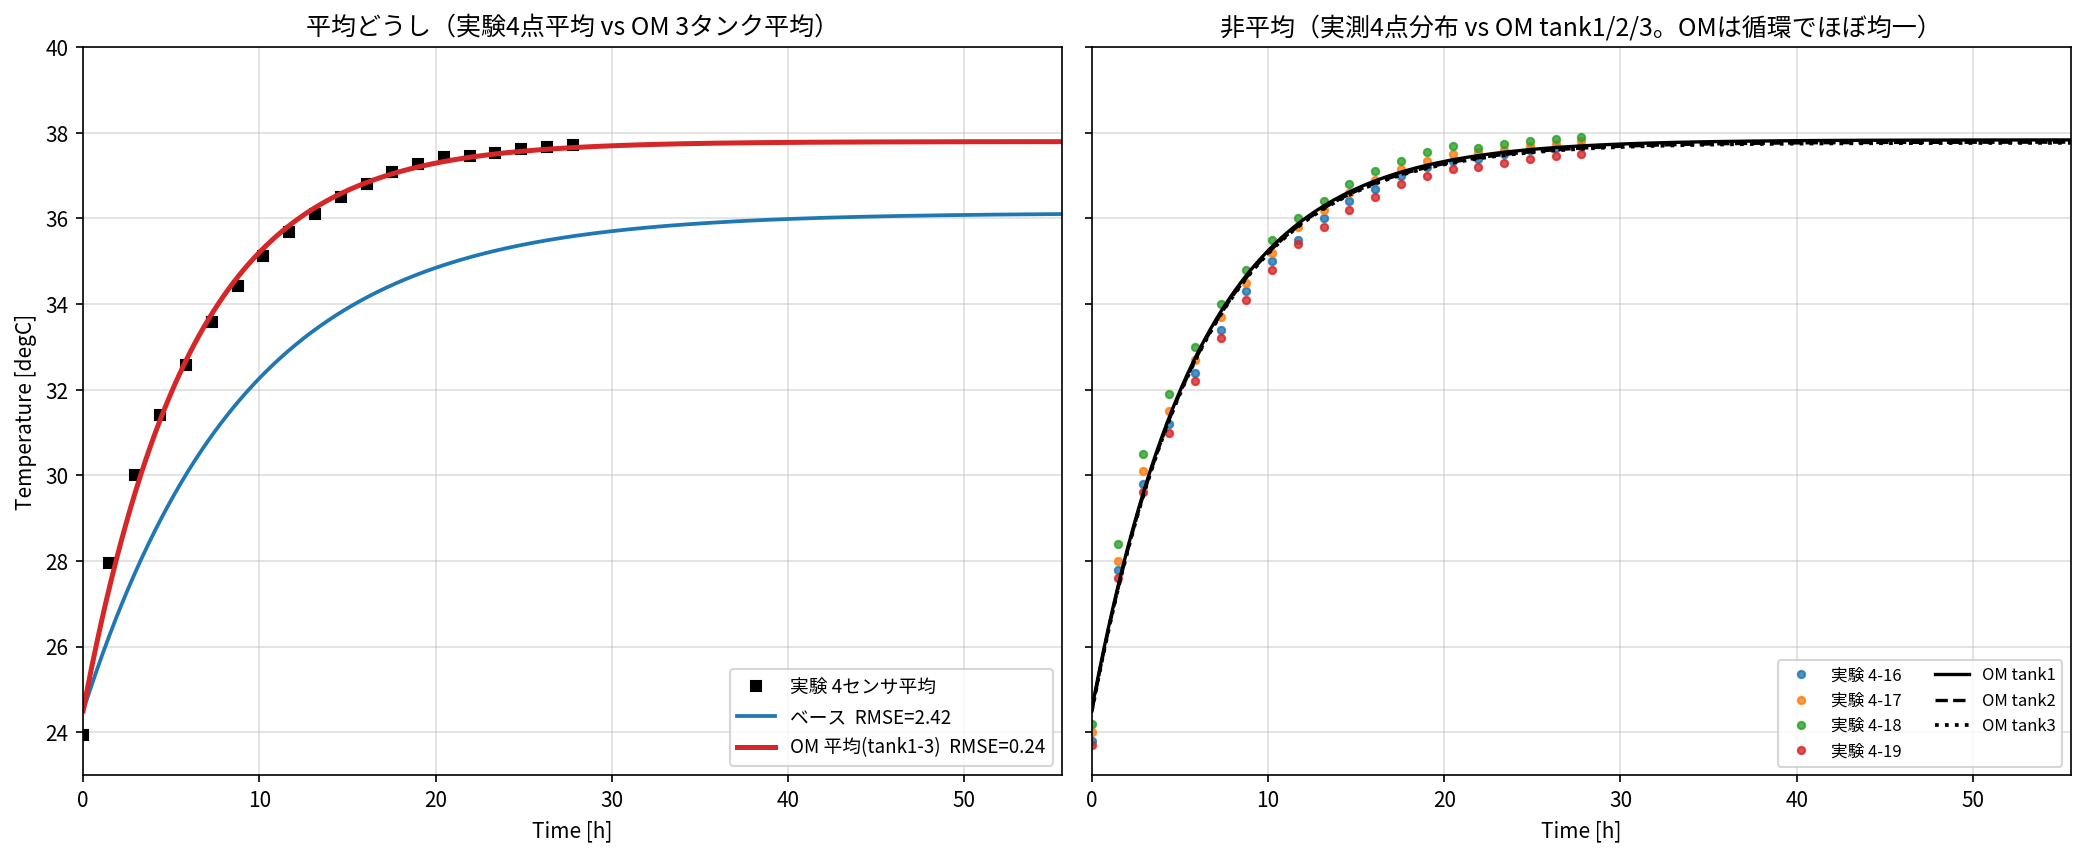
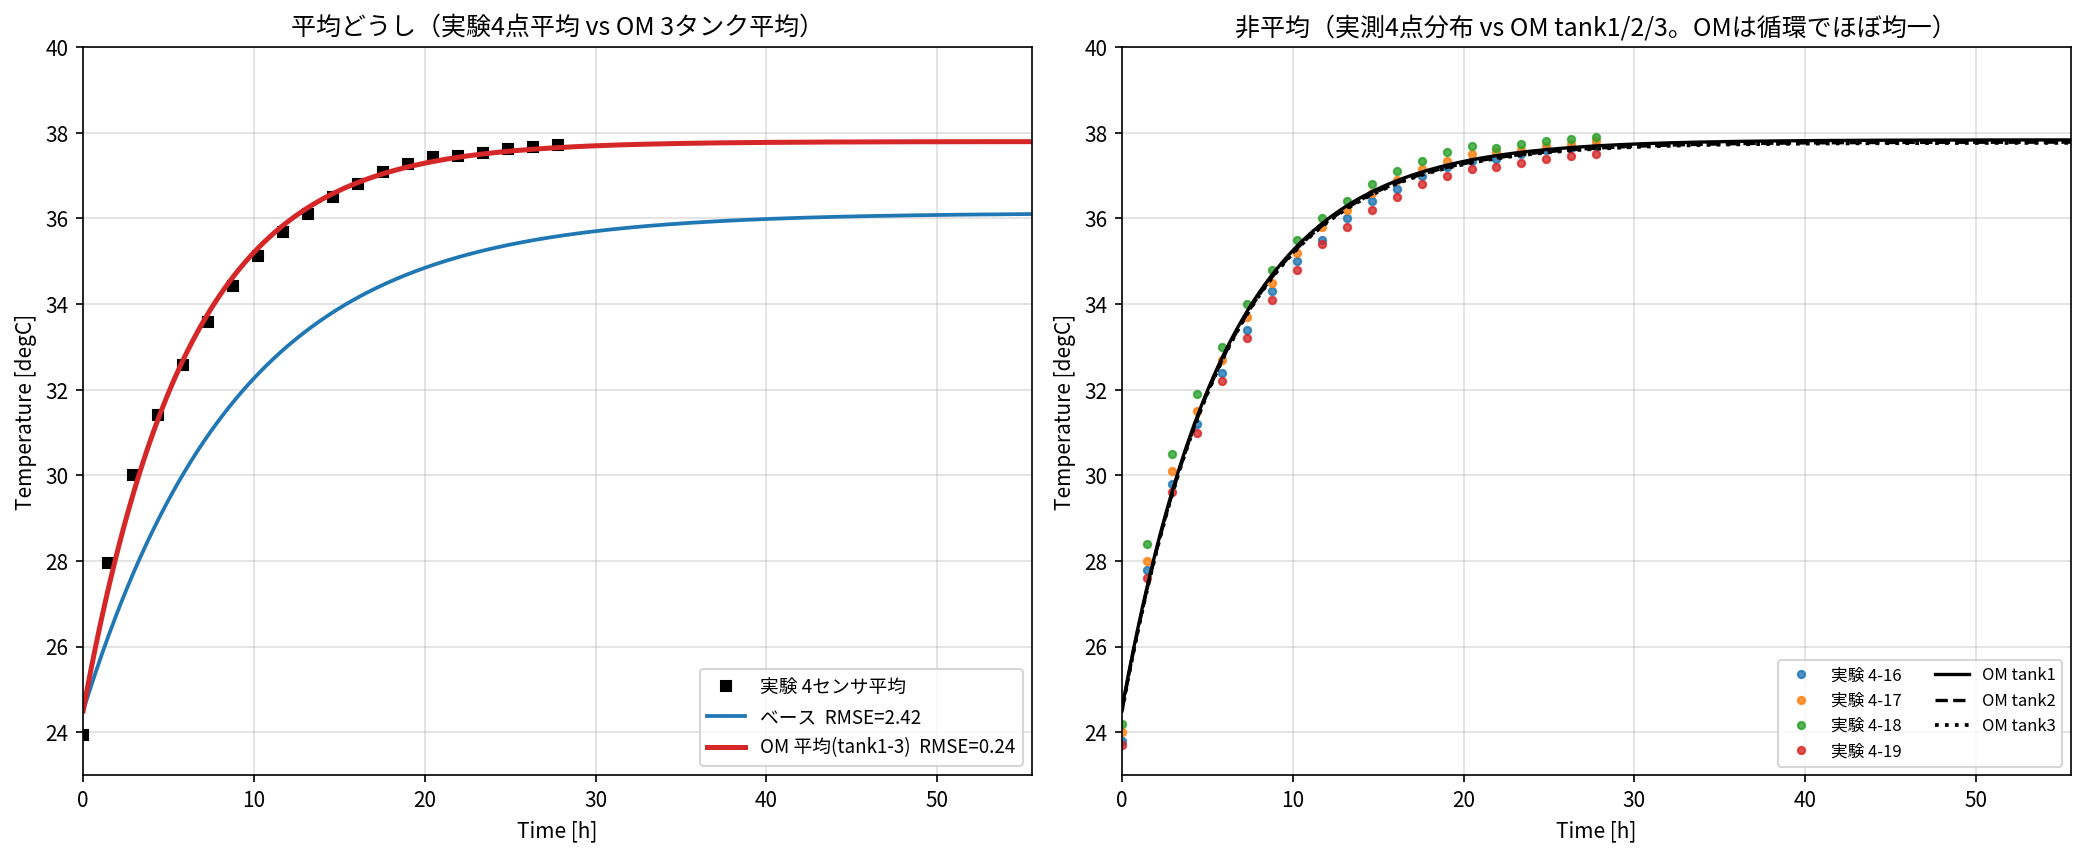
温度分布の実測vsOM比較図追加・fit図右軸表示・pairplotフォント拡大
- by_location_exp_vs_OM.png: 実測(上段)とOM(下段)を同形式で並べ、実測の場所差±0.5℃ vs
  OMタンク差±0.04℃(1桁差)を可視化。001レポートに追加
- fit_air_level: 右パネルにも温度軸を表示(sharey解除)
- pairplot: フォント・マーカーを拡大、凡例を「赤=パレート最適(実験目標に最も近い)」に明確化

Claude-Session: https://claude.ai/code/session_012Bb2Gqoegt25dmMh1N6dBX

diff --git a/docs/fit_params.py b/docs/fit_params.py
@@ -183,7 +183,7 @@ Tmean_tanks = (T1 + T2 + T3) / 3.0
 print("tank間温度差(飽和): max-min = %.3f degC (tank1=%.2f tank2=%.2f tank3=%.2f)"
       % (max(T1[-1], T2[-1], T3[-1]) - min(T1[-1], T2[-1], T3[-1]), T1[-1], T2[-1], T3[-1]))
 
-fig, (axA, axB) = plt.subplots(1, 2, figsize=(14, 5.8), sharey=True)
+fig, (axA, axB) = plt.subplots(1, 2, figsize=(14, 5.8))
 
 # 左: 平均どうし
 axA.plot(time_s / H, exp_mean, "ks", markersize=5, label="実験 4センサ平均")
@@ -205,11 +205,55 @@ axB.plot(tt / H, T1, "-", color="k", linewidth=1.6, label="OM tank1")
 axB.plot(tt / H, T2, "--", color="k", linewidth=1.6, label="OM tank2")
 axB.plot(tt / H, T3, ":", color="k", linewidth=1.8, label="OM tank3")
 axB.set_title("非平均（実測4点分布 vs OM tank1/2/3。OMは循環でほぼ均一）")
-axB.set_xlabel("Time [h]")
-axB.set_xlim(0, 200000 / H); axB.grid(True, alpha=0.4)
+axB.set_xlabel("Time [h]"); axB.set_ylabel("Temperature [degC]")
+axB.set_xlim(0, 200000 / H); axB.set_ylim(23, 40); axB.grid(True, alpha=0.4)
 axB.legend(fontsize=8, loc="lower right", ncol=2)
 
 plt.tight_layout()
 out6 = os.path.join(IMG, "fit_air_level.png")
 plt.savefig(out6, dpi=150, bbox_inches="tight")
 print("saved:", out6)
+
+# ============================================================
+# 図: 実測(上段) と OM(下段) の温度分布を同じ形式で 2x2 比較
+#     左=絶対値, 右=平均からの偏差(差を拡大)
+# ============================================================
+Tmean3 = (T1 + T2 + T3) / 3.0
+scol2 = {"4-16": "tab:blue", "4-17": "tab:orange", "4-18": "tab:green", "4-19": "tab:red"}
+tcol = {"tank1": "tab:blue", "tank2": "tab:orange", "tank3": "tab:green"}
+figD, ax4 = plt.subplots(2, 2, figsize=(14, 10))
+
+# 上段: 実測
+for name, s, c in zip(scol2, sensors, scol2.values()):
+    ax4[0, 0].plot(time_s / H, s, "-o", color=c, markersize=4, linewidth=1.4, label=name)
+ax4[0, 0].plot(time_s / H, exp_mean, "k--", linewidth=1.3, label="4点平均")
+ax4[0, 0].set_ylabel("Temperature [degC]"); ax4[0, 0].set_ylim(23, 40)
+ax4[0, 0].set_title("実測 センサ場所ごとの温度")
+ax4[0, 0].legend(fontsize=8, loc="lower right")
+for name, s, c in zip(scol2, sensors, scol2.values()):
+    ax4[0, 1].plot(time_s / H, s - exp_mean, "-o", color=c, markersize=4, linewidth=1.4, label=name)
+ax4[0, 1].axhline(0, color="k", lw=1, ls="--")
+ax4[0, 1].set_ylabel("平均からの偏差 [degC]")
+ax4[0, 1].set_title("実測 平均からの偏差（場所差, 振れ幅 ±0.5℃ 程度）")
+ax4[0, 1].legend(fontsize=8, loc="upper right")
+
+# 下段: OM (同じ形式)
+for name, T, c in zip(tcol, [T1, T2, T3], tcol.values()):
+    ax4[1, 0].plot(tt / H, T, "-", color=c, linewidth=1.8, label=name)
+ax4[1, 0].plot(tt / H, Tmean3, "k--", linewidth=1.3, label="3タンク平均")
+ax4[1, 0].set_xlabel("Time [h]"); ax4[1, 0].set_ylabel("Temperature [degC]"); ax4[1, 0].set_ylim(23, 40)
+ax4[1, 0].set_title("OM タンクごとの温度（tank1/2/3）")
+ax4[1, 0].legend(fontsize=8, loc="lower right")
+for name, T, c in zip(tcol, [T1, T2, T3], tcol.values()):
+    ax4[1, 1].plot(tt / H, T - Tmean3, "-", color=c, linewidth=1.8, label=name)
+ax4[1, 1].axhline(0, color="k", lw=1, ls="--")
+ax4[1, 1].set_xlabel("Time [h]"); ax4[1, 1].set_ylabel("平均からの偏差 [degC]")
+ax4[1, 1].set_title("OM 平均からの偏差（タンク差, 飽和時 max-min=%.3f℃）"
+                    % (max(T1[-1], T2[-1], T3[-1]) - min(T1[-1], T2[-1], T3[-1])))
+ax4[1, 1].legend(fontsize=8, loc="upper right")
+for a in ax4.ravel():
+    a.set_xlim(0, 200000 / H); a.grid(True, alpha=0.4)
+plt.tight_layout()
+outD = os.path.join(IMG, "by_location_exp_vs_OM.png")
+plt.savefig(outD, dpi=150, bbox_inches="tight")
+print("saved:", outD)

diff --git a/docs/study_pareto_demo.py b/docs/study_pareto_demo.py
@@ -120,25 +120,26 @@ def pareto_front(P):
 # ============================================================
 def pairplot(data, labels, pareto, path):
     m = len(labels)
-    fig, axes = plt.subplots(m, m, figsize=(2.4 * m, 2.4 * m))
+    fig, axes = plt.subplots(m, m, figsize=(3.4 * m, 3.4 * m))
     for i in range(m):
         for j in range(m):
             ax = axes[i, j]
             if i == j:
                 ax.hist(data[:, i], bins=25, color="tab:blue", alpha=0.7)
             else:
-                ax.scatter(data[~pareto, j], data[~pareto, i], s=8, alpha=0.35,
+                ax.scatter(data[~pareto, j], data[~pareto, i], s=16, alpha=0.35,
                            color="tab:blue", label="全ケース")
-                ax.scatter(data[pareto, j], data[pareto, i], s=22, alpha=0.9,
-                           color="tab:red", edgecolor="k", linewidth=0.3, label="パレート")
+                ax.scatter(data[pareto, j], data[pareto, i], s=55, alpha=0.95,
+                           color="tab:red", edgecolor="k", linewidth=0.5,
+                           label="パレート最適（実験目標に最も近い）")
             if i == m - 1:
-                ax.set_xlabel(labels[j], fontsize=10)
+                ax.set_xlabel(labels[j], fontsize=16)
             if j == 0:
-                ax.set_ylabel(labels[i], fontsize=10)
-            ax.tick_params(labelsize=7)
-    axes[0, m - 1].legend(fontsize=8, loc="upper right")
-    fig.suptitle("パラメータスタディ pairplot（赤=パレート最適, 目的: τ・Tmax を実験に一致）",
-                 fontsize=12, y=1.0)
+                ax.set_ylabel(labels[i], fontsize=16)
+            ax.tick_params(labelsize=12)
+    axes[0, m - 1].legend(fontsize=14, loc="upper right", markerscale=1.4)
+    fig.suptitle("パラメータスタディ pairplot（赤=パレート最適点, 目的: τ・Tmax を実験に一致）",
+                 fontsize=20, y=1.005)
     plt.tight_layout()
     plt.savefig(path, dpi=140, bbox_inches="tight")
     plt.close()
